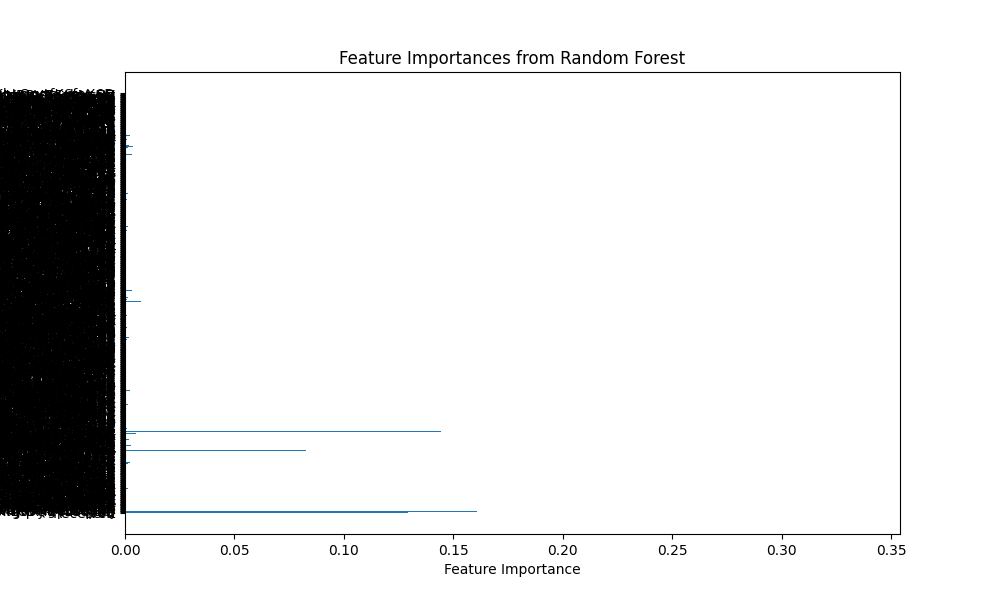
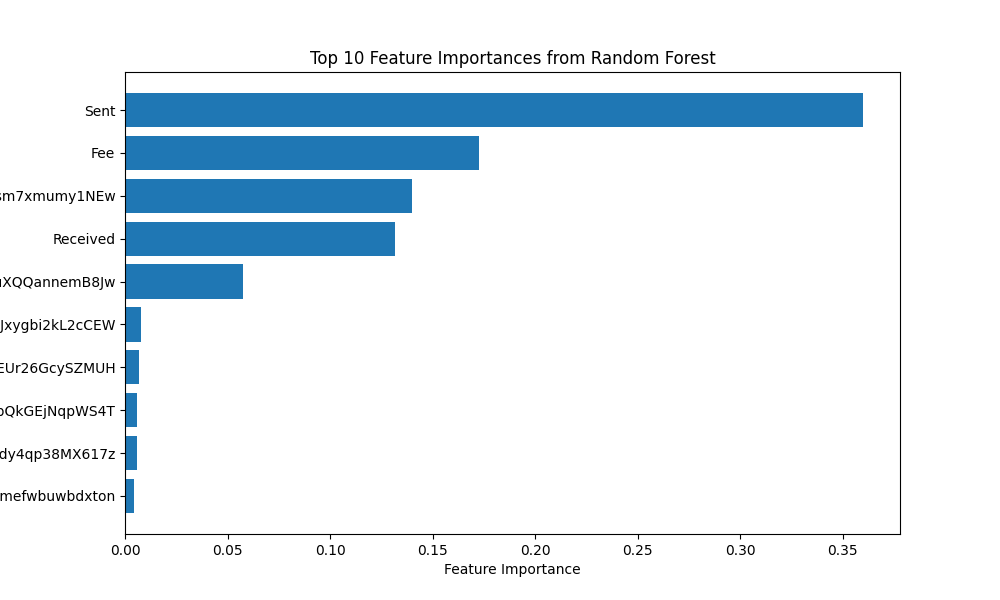
fix featrues cahrt

diff --git a/rules-engine.py b/rules-engine.py
@@ -107,11 +107,14 @@ print(classification_report(y_test, y_pred, zero_division=0))
 # Feature Importances
 feature_importances = full_pipeline.named_steps['classifier'].feature_importances_
 
+# Plot top 10 feature importances
+top_n = 10
+top_features = np.argsort(feature_importances)[-top_n:]
 plt.figure(figsize=(10, 6))
-plt.barh(all_columns, feature_importances)
+plt.barh(np.array(all_columns)[top_features], feature_importances[top_features])
 plt.xlabel('Feature Importance')
 plt.ylabel('Feature')
-plt.title('Feature Importances from Random Forest')
+plt.title('Top 10 Feature Importances from Random Forest')
 plt.savefig('feature_importances.png')  # Save the plot as an image
 
 # Predict on New Data
